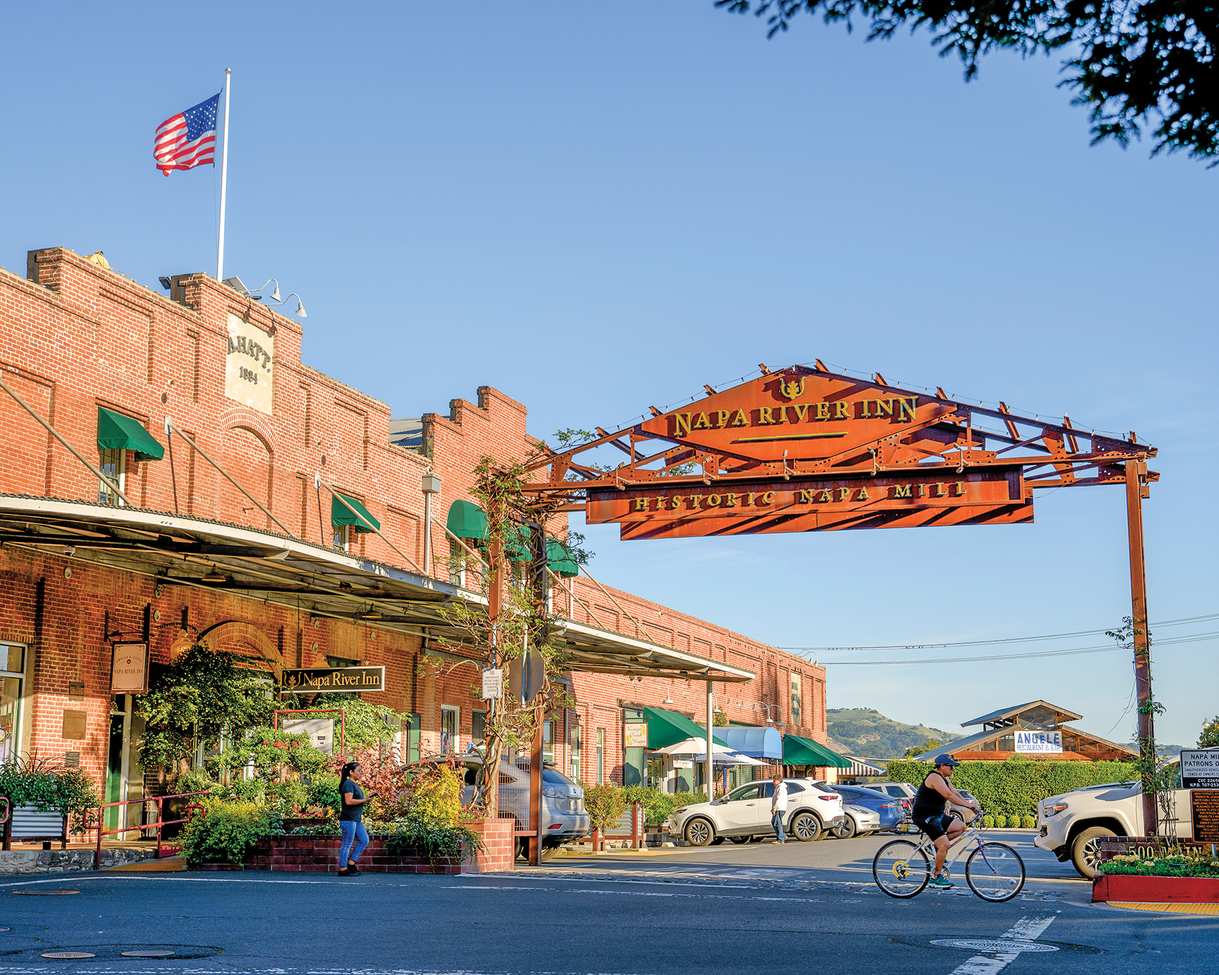
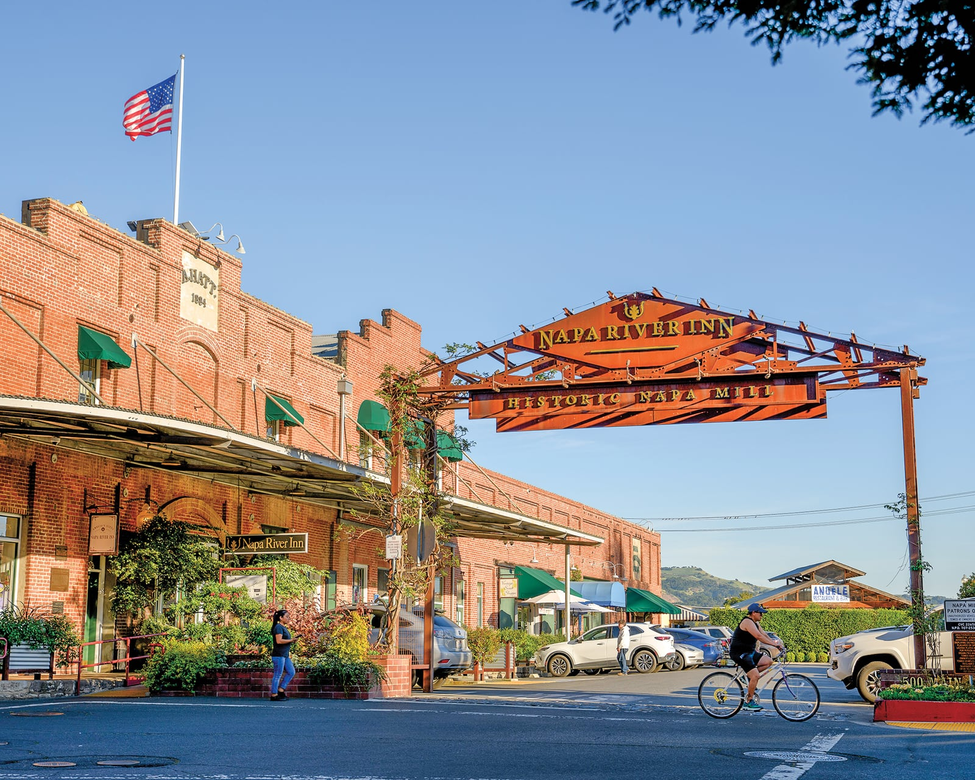
Beyond Napa refresh, taco listing photos + filter, replace upscaled thumbs with true sources
- Beyond Napa: new wide crops for Etude, Favia, Hudson Ranch and
  Carabao (portraits regenerated) and 13 full-list thumbs keyed
  (Artesa, Bouchaine, Cuvaison, Domaine Carneros, Etude, Favia,
  Hudson Ranch, Boon Fly Cafe, Carabao, Farm Restaurant, Casa Mani,
  Meritage Resort, Stanly Ranch)
- Taco listings now show their photos: the pin builder only trusts
  manifest/MDX art, so the five supplied taqueria photos are keyed in
  the directory-image manifest
- Add a Tacos quick filter to the Explore filter row and the dining
  full-list page; taco-tour venues are tagged on the shared pin
  dataset and the filter is deep-linkable via ?category=tacos
- Root-cause the lingering mushy thumbs: the earlier "full-height
  crop" pass had upscaled 2000x800 panos to 2000x1600. Replaced all
  of them with Alex's genuine exports: Gentleman Farmer, Mayacamas
  Downtown, Napa River Inn, Westin (DT originals), Cathiard,
  Quintessa, Staglin, Hendry, Bardessono (today's re-uploads),
  Solage, Hourglass, Schramsberg, Calistoga Inn Brewery, Wydown,
  Studio 1299A, Erosion

Claude-Session: https://claude.ai/code/session_017YLbcozxmYtU1AYDftPhqH

diff --git a/src/components/explore/ExploreMap.tsx b/src/components/explore/ExploreMap.tsx
@@ -6,7 +6,7 @@ import Link from 'next/link'
 import { usePathname, useRouter, useSearchParams } from 'next/navigation'
 import Map, { Marker, NavigationControl, type MapRef } from 'react-map-gl/mapbox'
 import Supercluster from 'supercluster'
-import { Compass, Hotel, UtensilsCrossed, Wine, type LucideIcon } from 'lucide-react'
+import { Compass, Hotel, Truck, UtensilsCrossed, Wine, type LucideIcon } from 'lucide-react'
 import type { MapPin } from '@/data/map-pins'
 import {
   CATEGORY_CONFIG,
@@ -110,7 +110,12 @@ export function ExploreMap({
 
   const categoryFilter: ExploreCategoryFilter = embedMode
     ? (overrideCategory ?? syncCategory ?? 'all')
-    : (pinnedCategory ?? urlParamToCategory(searchParams.get('category')))
+    : pinnedCategory
+      ? // Pinned dining pages still honor the tacos quick filter via ?category=tacos
+        (pinnedCategory === 'dining' && urlParamToCategory(searchParams.get('category')) === 'tacos'
+          ? 'tacos'
+          : pinnedCategory)
+      : urlParamToCategory(searchParams.get('category'))
 
   const regionFilter: string | 'all' = scopedRegion
     ? 'all'
@@ -229,6 +234,10 @@ export function ExploreMap({
   }, [routeSlugs])
 
   const counts = useMemo(() => countByCategory(scopedPins), [scopedPins])
+  const tacoCount = useMemo(
+    () => scopedPins.filter((p) => p.tags?.includes('tacos')).length,
+    [scopedPins],
+  )
 
   const supercluster = useMemo(() => {
     const index = new Supercluster<{ pin: MapPin }>({ radius: 56, maxZoom: 15 })
@@ -621,6 +630,35 @@ export function ExploreMap({
                     </button>
                   )
                 })}
+                {tacoCount > 0 && (
+                  <button
+                    type="button"
+                    className={`${styles.pill} ${categoryFilter === 'tacos' ? styles.pillActive : ''}`}
+                    onClick={() => onCategoryChange('tacos')}
+                  >
+                    <Truck className={styles.pillIcon} size={13} strokeWidth={2} aria-hidden />
+                    Tacos ({tacoCount})
+                  </button>
+                )}
+              </div>
+            )}
+            {pinnedCategory === 'dining' && tacoCount > 0 && (
+              <div className={styles.filterRow}>
+                <button
+                  type="button"
+                  className={`${styles.pill} ${categoryFilter !== 'tacos' ? styles.pillActive : ''}`}
+                  onClick={() => onCategoryChange('all')}
+                >
+                  All dining ({counts.dining})
+                </button>
+                <button
+                  type="button"
+                  className={`${styles.pill} ${categoryFilter === 'tacos' ? styles.pillActive : ''}`}
+                  onClick={() => onCategoryChange('tacos')}
+                >
+                  <Truck className={styles.pillIcon} size={13} strokeWidth={2} aria-hidden />
+                  Tacos ({tacoCount})
+                </button>
               </div>
             )}
             {showRegionFilter && (

diff --git a/src/data/map-pins.ts b/src/data/map-pins.ts
@@ -26,6 +26,8 @@ export interface MapPin {
   editorial?: boolean
   /** Wine Spectator Restaurant Award level from the print directory. */
   award?: string
+  /** Editorial groupings surfaced as quick filters (e.g. 'tacos'). */
+  tags?: string[]
   /** Legacy fields for NapaMap compatibility. */
   id: string
   type: PinType
@@ -163,6 +165,7 @@ function tacoTruckPins(): MapPin[] {
           : `https://${v.website}`
         : `/features/napa-taco-tour`,
       thumb: TACO_THUMBS[v.name],
+      tags: ['tacos'],
       id: slug,
       type: 'restaurant',
       images: TACO_THUMBS[v.name] ? [TACO_THUMBS[v.name]] : [],
@@ -173,3 +176,17 @@ function tacoTruckPins(): MapPin[] {
 }
 
 mapPins.push(...tacoTruckPins())
+
+// Tag every taco-tour venue (including the curated ones skipped above) so
+// Explore can offer a tacos quick filter.
+const TACO_VENUE_NAMES = new Set(
+  (getFeatureArticleContent('napa-taco-tour')?.venues ?? []).map((v) =>
+    v.name.toLowerCase().replace(/[’']/g, '').replace(/[^a-z0-9]+/g, ' ').trim(),
+  ),
+)
+for (const pin of mapPins) {
+  const norm = pin.name.toLowerCase().replace(/[’']/g, '').replace(/[^a-z0-9]+/g, ' ').trim()
+  if (TACO_VENUE_NAMES.has(norm) && !pin.tags?.includes('tacos')) {
+    pin.tags = [...(pin.tags ?? []), 'tacos']
+  }
+}

diff --git a/src/lib/explore.ts b/src/lib/explore.ts
@@ -1,7 +1,7 @@
 import type { MapPin, MapPinCategory } from '@/data/map-pins'
 import { CATEGORY_CONFIG, type Category } from '@/lib/mapbox'
 
-export type ExploreCategoryFilter = 'all' | Category
+export type ExploreCategoryFilter = 'all' | Category | 'tacos'
 
 export function truncateExcerpt(text: string, max = 90): string {
   const t = text.trim()
@@ -15,6 +15,7 @@ export function categoryToUrlParam(category: MapPinCategory): Category {
 
 export function urlParamToCategory(param: string | null): ExploreCategoryFilter {
   if (param === 'winery' || param === 'dining' || param === 'stay' || param === 'do') return param
+  if (param === 'tacos') return param
   return 'all'
 }
 
@@ -24,7 +25,9 @@ export function filterExplorePins(
   region: string | 'all',
 ): MapPin[] {
   return pins.filter((pin) => {
-    if (category !== 'all' && pin.category !== category) return false
+    if (category === 'tacos') {
+      if (!pin.tags?.includes('tacos')) return false
+    } else if (category !== 'all' && pin.category !== category) return false
     if (region !== 'all' && pin.region !== region) return false
     return true
   })
